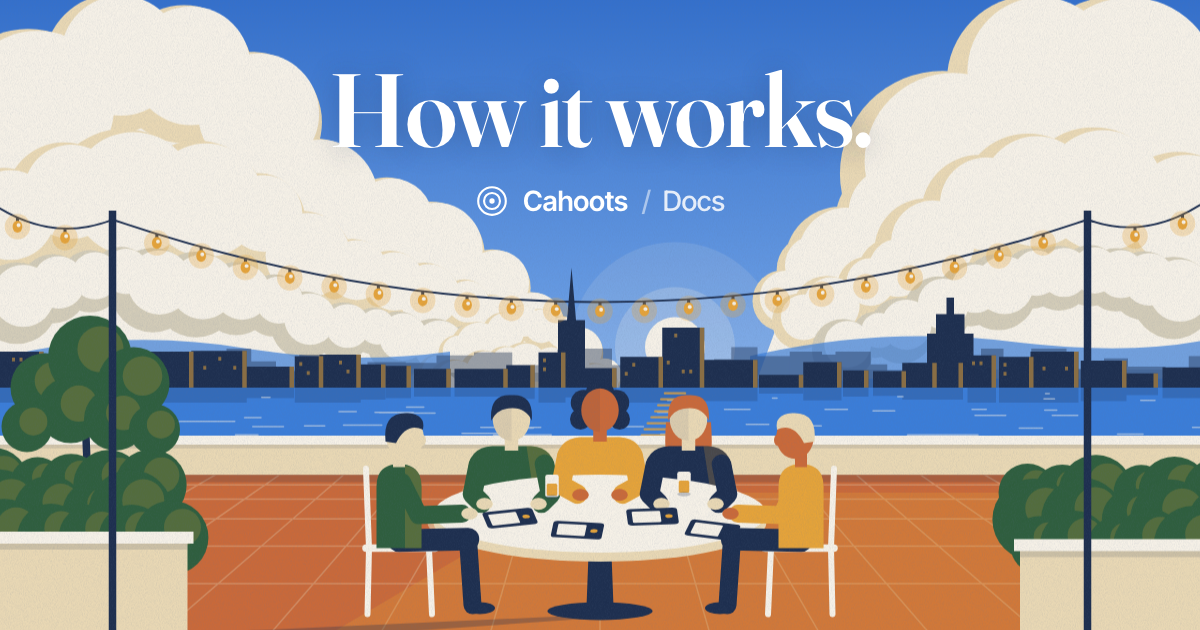
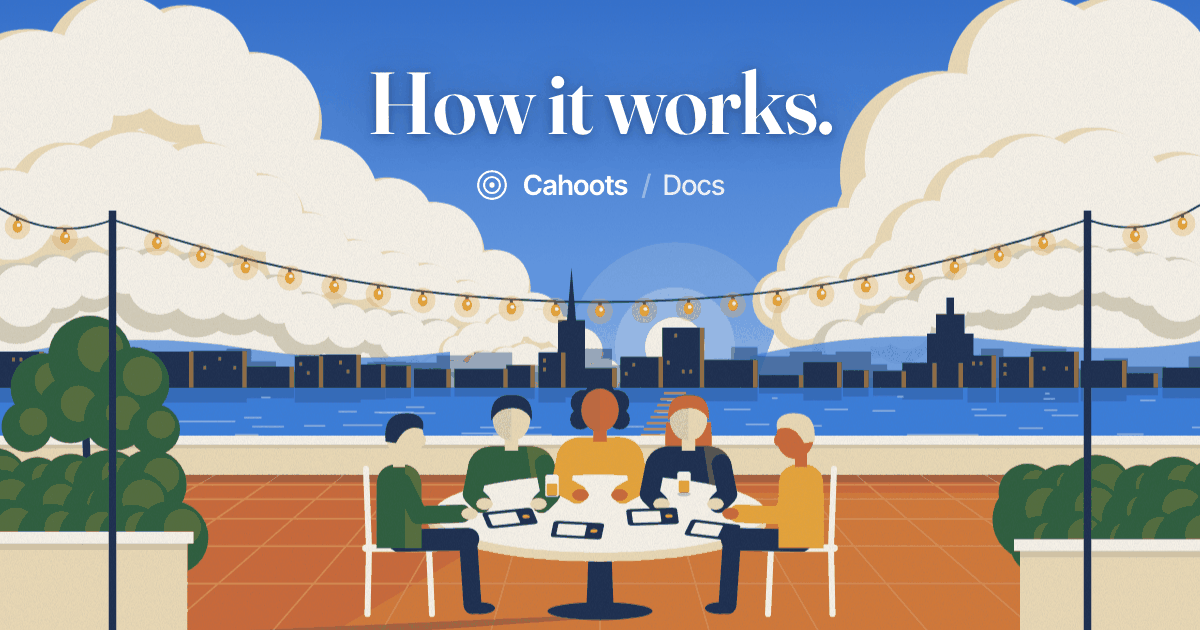
site and docs after the merge: the feed sentence says anyone can post, the glossary and the roadmap call the idle picture a punk, the Open Graph cards are a quarter of the size with the headline clear of the clouds, the antenna comments say three turns, and a writing pass on the homepage (one claim 

Changed region(s): [[0.2775, 0.0905, 0.74, 0.2413], [0.4008, 0.2714, 0.6167, 0.3619], [0.555, 0.6032, 0.5858, 0.6333]]

diff --git a/site/index.html b/site/index.html
@@ -68,7 +68,7 @@
     <div>
       <ol class="steps">
         <li><span><b>Meet.</b> Bring your circle together, with phones or cards.</span></li>
-        <li><span><b>Exchange.</b> Stack the cards or scan the codes on the screens; the devices make the keys.</span></li>
+        <li><span><b>Exchange.</b> Stack the cards or scan the codes on the screens. The devices make the keys.</span></li>
         <li><span><b>Compare.</b> Read your six words aloud. Everyone's must match.</span></li>
       </ol>
       <p class="more"><a href="docs/#/ceremony-guide">The full six steps <span aria-hidden="true">→</span></a></p>
@@ -108,7 +108,7 @@
 <section class="band wrap" id="feed" aria-labelledby="feed-title">
   <h2 id="feed-title">Your messages sit in public. Only your circle can read them.</h2>
   <div class="feed">
-    <p class="sub">Cahoots posts to a public feed, like a numbers station. Anyone can see it. Only your circle can read it, post to it, or notice if a post goes missing or moves.</p>
+    <p class="sub">Cahoots posts to a public feed, like a numbers station. Anyone can see it, and anyone can post. Only your circle can read what's there, write a post that counts, or notice if one goes missing.</p>
     <div class="station-card" role="group" aria-label="Live feed example">
       <div class="station-head"><span>circle 6f8648f8</span><span>seq 41 · 25 B</span></div>
       <pre id="station-sample"></pre>
@@ -122,12 +122,12 @@
     <div class="device">
       <h3>Phone</h3>
       <p>The browser app, on the phone you already carry.</p>
-      <p class="fact">Keys in the browser.</p>
+      <p class="fact">The keys stay in the browser.</p>
     </div>
     <div class="device">
       <h3>Laptop</h3>
       <p>A program on your machine holds the keys. It can run for you, for a server, or for an AI agent.</p>
-      <p class="fact">Keys on disk.</p>
+      <p class="fact">The keys sit on disk.</p>
     </div>
   </div>
   <p class="note">One member with keys on a laptop can leak what everyone else keeps on cards. <a href="docs/#/tiers">How the devices compare <span aria-hidden="true">→</span></a></p>
@@ -136,8 +136,8 @@
   <div class="card-row">
     <div class="card-copy">
       <h2 id="card-title">Why carry a card.</h2>
-      <p>Your keys live in a chip that can prove they were made there and never gives them up. Every approval is a press of two buttons on something in your hand, so no app, laptop or agent can act for you, and no website can trick you into it. Lose your phone and you lose nothing: tap the card and your chats come back. Stack cards with people you trust and a circle exists in minutes, with nothing sent anywhere.</p>
-      <p>It shows your punk, your contact card, and the six words you read aloud when a circle is made. The hardware and the firmware are open; build your own, or carry ours.</p>
+      <p>Your keys live in a chip that can prove they were made there and never gives them up. Every approval is a press of two buttons on something in your hand. No app, laptop or agent can act for you, and no website can trick you into it. Lose your phone and you lose nothing: tap the card and your chats come back. Stack cards with people you trust and a circle exists in minutes. Nothing is sent anywhere.</p>
+      <p>It shows your punk, your contact card, and the six words you read aloud when a circle is made. The hardware and the firmware are open. Build your own, or carry ours.</p>
       <div class="cta">
         <a class="btn ghost" href="docs/#/v1-board">What's inside <span aria-hidden="true">→</span></a>
         <a class="btn ghost" href="docs/#/diy-badge">Build one <span aria-hidden="true">→</span></a>

diff --git a/site/og/og.css b/site/og/og.css
@@ -16,8 +16,8 @@ h1.sm { font-size: 84px; }
 /* The three site cards: the poster of the rooftop fills the card, the headline in Fraunces over the sky. */
 body.scene { background: var(--sky-low) url("../assets/place.png") no-repeat center 72% / 1200px 675px; }
 body.scene .card { padding: 58px 72px 0; justify-content: flex-start; align-items: center; gap: 22px; text-align: center; }
-body.scene h1 { font-family: "Fraunces", Georgia, serif; font-weight: 600; font-size: 104px; line-height: 1; letter-spacing: -0.02em; margin: 0; max-width: none; color: var(--on-sky); text-shadow: 0 2px 28px rgba(30, 47, 79, 0.3); }
-body.scene h1.sm { font-size: 74px; line-height: 1.02; }
+body.scene h1 { font-family: "Fraunces", Georgia, serif; font-weight: 600; font-size: 88px; line-height: 1; letter-spacing: -0.02em; margin: 0; max-width: none; color: var(--on-sky); text-shadow: 0 2px 10px rgba(30, 47, 79, 0.45), 0 2px 36px rgba(30, 47, 79, 0.35); }
+body.scene h1.sm { font-size: 66px; line-height: 1.02; }
 body.scene .brand { color: var(--on-sky); font-size: 28px; }
 body.scene .brand svg { width: 34px; height: 34px; }
 body.scene .brand .sub { color: var(--on-sky); opacity: 0.85; }

diff --git a/hardware/v1/design.py b/hardware/v1/design.py
@@ -3,7 +3,7 @@
 A 54 x 86 mm two-layer board that a Raspberry Pi Pico 2 solders onto. On the front: the raw
 1.54" e-paper (GDEY0154D67) on its 24-pin flex, two tactile switches, the pin half of a
 magnetic pogo pair for the card above, two JST-SH pile sockets and a Qwiic socket at the
-bottom edge, and a four-turn NFC loop around the panel. On the back: the Pico 2, the coin cell,
+bottom edge, and a three-turn NFC loop around the board's edge. On the back: the Pico 2, the coin cell,
 a power switch, the panel's boost circuit, a 10-pin expansion socket, the SE051 secure element
 with a switch that opens its antenna loop, and four magnet pockets.
 
@@ -193,7 +193,7 @@ part("C15", "Device:C", "Capacitor_SMD:C_0603_1608Metric", "39pF C0G", "C107049 
 part("C16", "Device:C", "Capacitor_SMD:C_0603_1608Metric", "27pF C0G", "C107045 not fitted: antenna trim", "back", (15.5, 33.0), 0, {"1": "LA", "2": "LB"})
 part("SW4", "Switch:SW_SPDT", "Button_Switch_SMD:SW_SPDT_Shouhan_MSK12C02", "antenna", "C431540 MSK-12C02", "back", (21.0, 25.5), 0, {"1": "LA", "2": "ANT"})
 _ap = antenna_path()
-part("ANT1", "Device:Antenna_Loop", "cahoots:NFC_loop", "NFC loop, 4 turns", "board copper", "front", _ap[0], 0, {"1": "ANT", "2": "LB"})
+part("ANT1", "Device:Antenna_Loop", "cahoots:NFC_loop", "NFC loop, 3 turns", "board copper", "front", _ap[0], 0, {"1": "ANT", "2": "LB"})
 
 # ---- magnet pockets: holes, no copper ----
 for i, (x, y) in enumerate(MAGNETS):

diff --git a/docs/plan.md b/docs/plan.md
@@ -44,7 +44,7 @@ Goal: a badge you can hold, that makes the secret in a room and never puts it on
 | M4f Chip apps | The secure element holds each seat's key, and the badge does more with it. The seat key is made in the chip at the ceremony, and the badge computes a circle root and stores it in the chip beside it, and a chip record keeps the chip and the circle records honest. The circle root is HKDF-SHA256 over every member's reveal content key in seat order, so honest members get the same root and no outsider does (nothing in the manifest checks that yet); the card seal key and the chat key come from it. The chip can attest that a seat key lives in it, and the badge says so in `Describe`. The badge signs SSH logins and git commits with the seat key, shows the user, the host the laptop names, or the commit's author and subject, and signs only after both buttons. Contact cards are signed by a seat and sealed for the circle. Grants have a second form as a CBOR Web Token. A badge keeps up to 16 circles on the Pico 2 (the first with a 1 MiB pad, the others with 48 KiB) and 4 on the Nano, with a chooser at boot and forgetting one at a time. One custodian request family, `Chip`, carries all of it ([protocol](protocol.md) section 6). The Pico 2 firmware has a driver for the SE051 (the `se05x` crate), built but not yet run on a board. The design is in the [spec](superpowers/specs/2026-10-28-chip-apps-design.md). | A simulated badge with a software chip completes a ceremony, signs an SSH login and a git commit that `ssh-keygen` verifies, attests its seat key, signs a card and a version 2 grant that verify against the manifest, and keeps several circles that nothing links; a badge with the chip does the same on the bench | **partly done** (2026-10-28): built and tested in software. Waits for the bench: flashing the Pico 2 with the chip, a ceremony with a chip seat, attestation against NXP's real root (only the software chip's test CA verifies today, and the real payload layout is captured on the bench), `ssh -T git@github.com` and a verified commit. Also not built: signed tags, commits whose request is over 16 KiB, publishing cards on the station |
 | M4j Pad in the chip | The pad is encrypted at the ceremony under a key that is then handed to the chip and never leaves it; the badge reads a piece of ciphertext from flash, the chip decrypts that piece, and only the bytes of the current spend are ever in the clear, in the Pico's RAM. The ledger's high-water mark is a counter in the chip, so a restored flash image cannot bring spent bytes back. Spends become encrypted requests: a request names a purpose the badge understands, every key that leaves is sealed to a public key the request carried, and the raw "spend N bytes" request goes. The bus between the Pico and the chip is encrypted with SCP03. The chip's NFC side stays available: V1 carries the loop with a slide switch in it, the contactless interface is off in firmware until the owner turns it on from the badge's menu, and the pad key is reachable only from the Pico | A V1 board with the chip completes a ceremony, a flash dump of it is ciphertext, a restored dump is refused, the I2C bus between the Pico and the chip carries only the secure channel, and a laptop gets a tunnel key sealed to its own key after the owner presses both buttons | next: needs the chip apps steps on the bench first. 10 to 15 SE051 Click boards ordered on 2026-10-26; the chip, its loop and the loop's switch are on the V1 board drawn 2026-10-27 |
 | M4h Grants and approvals from the badge | The consent screen becomes the place grants and approvals are born. A laptop sends the badge a request in one of a small set of profiles the badge knows how to draw: give this key these purposes until this log position, or approve this one operation. The badge shows the fields it checked, never a hash, and refuses a profile it does not know. Both buttons sign the object with the seat key. The `Identify` answer says which profiles the badge draws and which assurance level it can give, so a program on the other end knows what it may ask before asking. Works with the seat key in software first and with the chip's key once M4f lands | A simulated badge and a Nano badge each sign a grant and an approval after both buttons, a request in an unknown profile is refused without being shown, a laptop verifies both objects against the circle's manifest, and `Identify` lists the profiles | next, with M4f. Needs no hardware |
-| M4i The idle screen | What a badge shows at rest: a sigil, a picture drawn from the badge's own randomness and stable for that badge, so people recognise each other's at a glance, and a page for the contact card with a code a phone camera reads. The words move to a page of their own, for verifying. The same art direction as the site: one bit, pixel-drawn | A badge at rest shows its sigil; two badges from one ceremony show the same circle mark on the circle page; the card page shows a code the app reads | after M4f's first half (decided 2026-10-28) |
+| M4i The idle screen | What a badge shows at rest: a punk, a one-bit pixel face drawn from the badge's own randomness and stable for that badge, so people recognise each other's at a glance, and a page for the contact card with a code a phone camera reads. The words move to a page of their own, for verifying. The same art direction as the site: one bit, pixel-drawn | A badge at rest shows its punk; two badges from one ceremony show the same circle mark on the circle page; the card page shows a code the app reads | after M4f's first half (decided 2026-10-28) |
 | M4g Attested readings | A sensor on the key store chip's own bus, read and signed by the chip with a nonce from the circle's log, wrapped in a fact object (protocol section 8.5), sealed under a period key (S7) and posted to the circle, from a node whose chip the circle pinned at the ceremony. The use cases and the decisions it needs are in [attested readings](attested-data.md) | A node posts a temperature reading that a phone in the circle verifies against the key pinned at the ceremony, and a reading lifted into another circle is refused | after M4f and S7; the chip's second bus is on V1 as drawn, with no sensor attached |
 | M4d Badge over USB | The browser app talks to a badge over WebUSB or WebSerial using the custodian protocol: the phone scans codes for the badge and shows the badge's codes, and the secret never crosses the cable. The badge is the custodian and the app is the consumer | A phone and a DIY badge complete a ceremony with a second phone and badge | after M4b |
 | M3 Hosted seat | A group member that runs as a program inside a [Turnkey Verifiable Cloud](https://docs.turnkey.com/features/verifiable-cloud/overview) enclave, under a policy the group pinned. It joins the way a badge does: at a ceremony, as a seat with its own key, its measurement recorded in the manifest beside its tier, and it acts only under grants the members signed on their badges. A message in the log expels it | The acceptance scenario from the handoff passes | later |

diff --git a/docs/glossary.md b/docs/glossary.md
@@ -50,7 +50,7 @@ The words these documents use, in plain terms. Where a term has a precise defini
 
 **Card.** The badge in its wallet form. V1 is a board in a printed case; V2 is the card.
 
-**Sigil.** The picture a badge draws from its own randomness and shows at rest, so people recognise each other's at a glance. It is being built (roadmap item M4i in [the plan](plan.md)).
+**Punk.** The picture a badge draws from its own randomness and shows at rest: a one-bit pixel face with its own hat, glasses or hair, the same on every circle, so people recognise each other's at a glance. It is being built (roadmap item M4i in [the plan](plan.md)).
 
 **Contact card.** A page on the badge with a code that a phone camera reads. It is part of the idle screen being built (roadmap item M4i in [the plan](plan.md)); a tag on the board is also planned to carry it, or a link, for a phone with no app ([manufacturing](manufacturing.md)).
 
